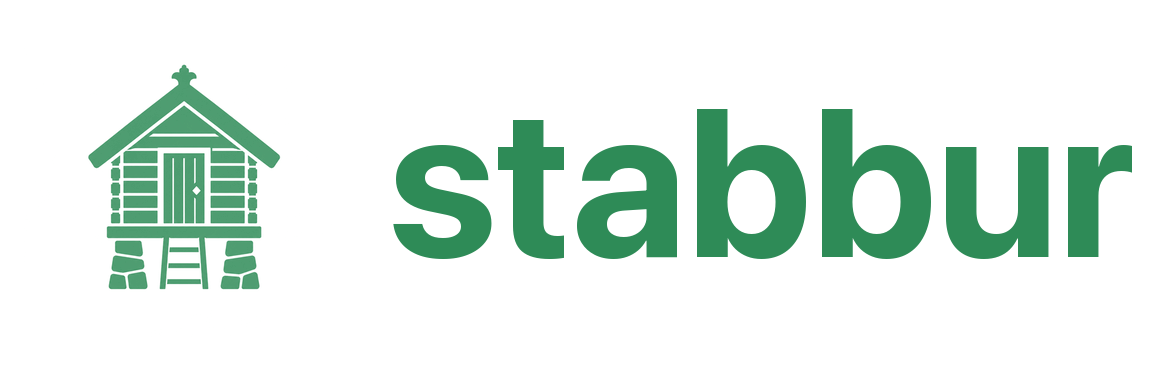
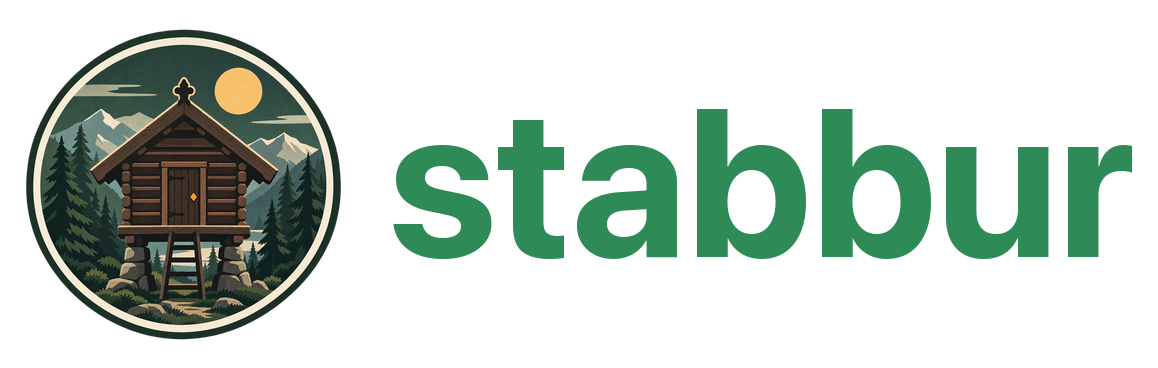
feat(brand): 0.6.2 - the emblem everywhere
Replaces every brand asset with the final circular emblem: README and the docs
landing page at 200-240px, the PyPI page (same file, absolute URL), the chat
empty state at 144px, the sidebar and collapsed rail at 24px, the favicon at
32/64px, and the apple-touch-icon at 180px.

The source is 1254px RGBA and already transparent, so no keying was needed -
but its bounding box is 1253x1223, not square. Every size is generated from a
square-padded copy; resizing the raw crop to a square target would have
squashed the circle into an ellipse.

The touch icon alone gets an opaque dark-green ground: iOS composites a touch
icon over black and applies its own mask, so transparency there would render
the artwork on black rather than on its own colour.

The hand-drawn flat glyph and the --brand token that coloured it are gone -
the emblem covers every size the glyph did, down to 24px, so keeping a second
mark would mean two brands. The favicon is now PNG rather than SVG, and
/favicon.ico serves the 32px PNG.

The hero screenshot is recaptured against a mock upstream again, so it shows
the public example model rather than whatever is loaded on this machine.

Changed region(s): [[0.0, 0.0598, 0.3109, 0.9266]]

diff --git a/frontend/src/index.css b/frontend/src/index.css
@@ -73,9 +73,6 @@
      (and the error text shadcn already paints with it), `--critical` is a state
      stabbur OBSERVED and is reporting - a failed doctor check has nothing for the
      reader to press. */
-  /* The brand green of the logo and favicon. Separate from --good, which means a health
-     check PASSED - the mark is not reporting anything, so it must not borrow that meaning. */
-  --brand: oklch(0.6 0.14 155);
   --good: oklch(0.6 0.14 155);
   --critical: oklch(0.55 0.17 25);
   --warning: oklch(0.65 0.13 75);
@@ -129,7 +126,6 @@
   --sidebar-accent-foreground: oklch(0.88 0.08 260);
   --sidebar-border: oklch(0.3 0.006 265);
   --sidebar-ring: oklch(0.62 0.19 260);
-  --brand: oklch(0.72 0.16 155);
   --good: oklch(0.72 0.16 155);
   --critical: oklch(0.7 0.16 25);
   --warning: oklch(0.75 0.13 75);
@@ -186,7 +182,6 @@
      The `--code-*` tokens deliberately get none: they are spent by the `.hljs-*`
      rules alone, and a utility would invite a component to paint prose with a
      syntax colour. */
-  --color-brand: var(--brand);
   --color-good: var(--good);
   --color-critical: var(--critical);
   --color-warning: var(--warning);

diff --git a/frontend/src/components/Sidebar.tsx b/frontend/src/components/Sidebar.tsx
@@ -19,7 +19,6 @@ import {
   TooltipContent,
   TooltipTrigger,
 } from "@/components/ui/tooltip";
-import { StabburMark } from "@/components/StabburMark";
 import type { Conversation } from "@/lib/types";
 import { cn } from "@/lib/utils";
 
@@ -148,7 +147,7 @@ export function Sidebar({
       <div className="flex items-center justify-between px-3 py-3">
         {/* The narrow rail and small screens get the bare brand; there is no room for both words. */}
         <span className="flex items-center gap-1.5 px-1 text-sm font-semibold tracking-tight">
-          <StabburMark className="h-5 w-5 shrink-0 text-brand" />
+          <img src="/logo.png" alt="" className="h-6 w-6 shrink-0" />
           <span className="md:hidden">Stabbur</span>
           <span className="hidden md:inline">Stabbur Loft</span>
         </span>

diff --git a/frontend/src/App.tsx b/frontend/src/App.tsx
@@ -1742,8 +1742,11 @@ export function App() {
           )}
 
           {messages.length === 0 ? (
-            // Empty state: centered greeting + composer.
+            // Empty state: badge + centered greeting + composer. The badge lives here rather
+            // than in the sidebar because it is an illustration, not a glyph: it needs ~48px
+            // before the pillars and ladder resolve, and the sidebar mark is 20px.
             <div className="flex flex-1 flex-col items-center justify-center px-4">
+              <img src="/logo.png" alt="" width={144} height={144} className="mb-6" />
               <h1 className="mb-8 text-2xl font-semibold tracking-tight">
                 {ready ? greeting : "Select a model to start"}
               </h1>

diff --git a/frontend/src/components/IconRail.tsx b/frontend/src/components/IconRail.tsx
@@ -1,6 +1,5 @@
 import { AudioLines, Boxes, PanelLeft, SquarePen } from "lucide-react";
 
-import { StabburMark } from "@/components/StabburMark";
 import { Tooltip, TooltipContent, TooltipTrigger } from "@/components/ui/tooltip";
 import { cn } from "@/lib/utils";
 
@@ -67,7 +66,7 @@ export function IconRail({
           status bar's left segment shrinks to this rail's width and carries the gear itself, so
           putting one here too would stack two gears in the same corner. */}
       <div className="mt-auto flex flex-col items-center gap-1">
-        <StabburMark className="mb-1 h-4 w-4 text-sidebar-muted-foreground" />
+        <img src="/logo.png" alt="" className="mb-1 h-6 w-6" />
       </div>
     </aside>
   );

diff --git a/frontend/index.html b/frontend/index.html
@@ -3,7 +3,8 @@
   <head>
     <meta charset="UTF-8" />
     <meta name="viewport" content="width=device-width, initial-scale=1.0" />
-    <link rel="icon" type="image/svg+xml" href="/favicon.svg" />
+    <link rel="icon" type="image/png" sizes="32x32" href="/favicon-32.png" />
+    <link rel="icon" type="image/png" sizes="64x64" href="/favicon-64.png" />
     <link rel="apple-touch-icon" href="/apple-touch-icon.png" />
     <title>Stabbur Loft</title>
   </head>

diff --git a/src/stabbur/app.py b/src/stabbur/app.py
@@ -299,14 +299,20 @@ def create_app(settings: Settings | None = None) -> FastAPI:
     # API path operations are matched first; fallback="index.html" supports the
     # SPA's client-side routing.
     if settings.serve_ui and settings.frontend_dir.is_dir():
-        # Browsers probe /favicon.ico regardless of the declared <link> icon; serve
-        # the SVG for it so it doesn't 404 (the SPA fallback would hand back HTML).
-        favicon = settings.frontend_dir / "favicon.svg"
-        if favicon.is_file():
+        # Browsers probe /favicon.ico regardless of the declared <link> icons; serve a real
+        # icon for it so it doesn't 404 (the SPA fallback would hand back HTML instead).
+        # The 32px PNG is the one browsers render at tab size; .ico is only the URL here.
+        _icons = (("favicon-32.png", "image/png"), ("favicon.svg", "image/svg+xml"))
+        favicon, favicon_type = next(
+            ((settings.frontend_dir / n, t) for n, t in _icons if (settings.frontend_dir / n).is_file()),
+            (None, ""),
+        )
+        if favicon is not None:
+            icon_path, icon_type = favicon, favicon_type
 
             @app.get("/favicon.ico", include_in_schema=False)
             async def _favicon() -> FileResponse:
-                return FileResponse(favicon, media_type="image/svg+xml")
+                return FileResponse(icon_path, media_type=icon_type)
 
         # Cache policy for the built SPA. FastAPI's frontend() sends only ETag/Last-Modified,
         # and a response with no Cache-Control is *heuristically* cached by browsers — so

diff --git a/README.md b/README.md
@@ -2,7 +2,7 @@
      relative paths - a repo-relative src renders as a broken image on the project page. -->
 <div align="center">
 
-<img src="https://raw.githubusercontent.com/winterop-com/stabbur/main/docs/assets/logo.png" alt="stabbur" width="200">
+<img src="https://raw.githubusercontent.com/winterop-com/stabbur/main/docs/assets/logo.png" alt="stabbur" width="240">
 
 # stabbur
 

diff --git a/docs/index.md b/docs/index.md
@@ -1,4 +1,4 @@
-<img src="assets/logo.png" alt="stabbur" width="150" align="right">
+<img src="assets/logo.png" alt="stabbur" width="200" align="right">
 
 # stabbur
 
